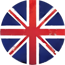
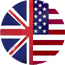
Wildlands web: English flag changed and qr removed

diff --git a/src/app/components/ad/ad.js b/src/app/components/ad/ad.js
@@ -7,10 +7,10 @@ function Ad(props) {
     return (
         <div className='ad' id='ad'>
             <h1>{t('ad.title')}</h1>
-            <div className='ad__qr'>
+            {/* <div className='ad__qr'>
                 <p>{t('ad.scan')}</p>
                 <img src={'/ad/qrtest2.png'} alt='' />
-            </div>
+            </div> */}
         </div>
     );
 }
